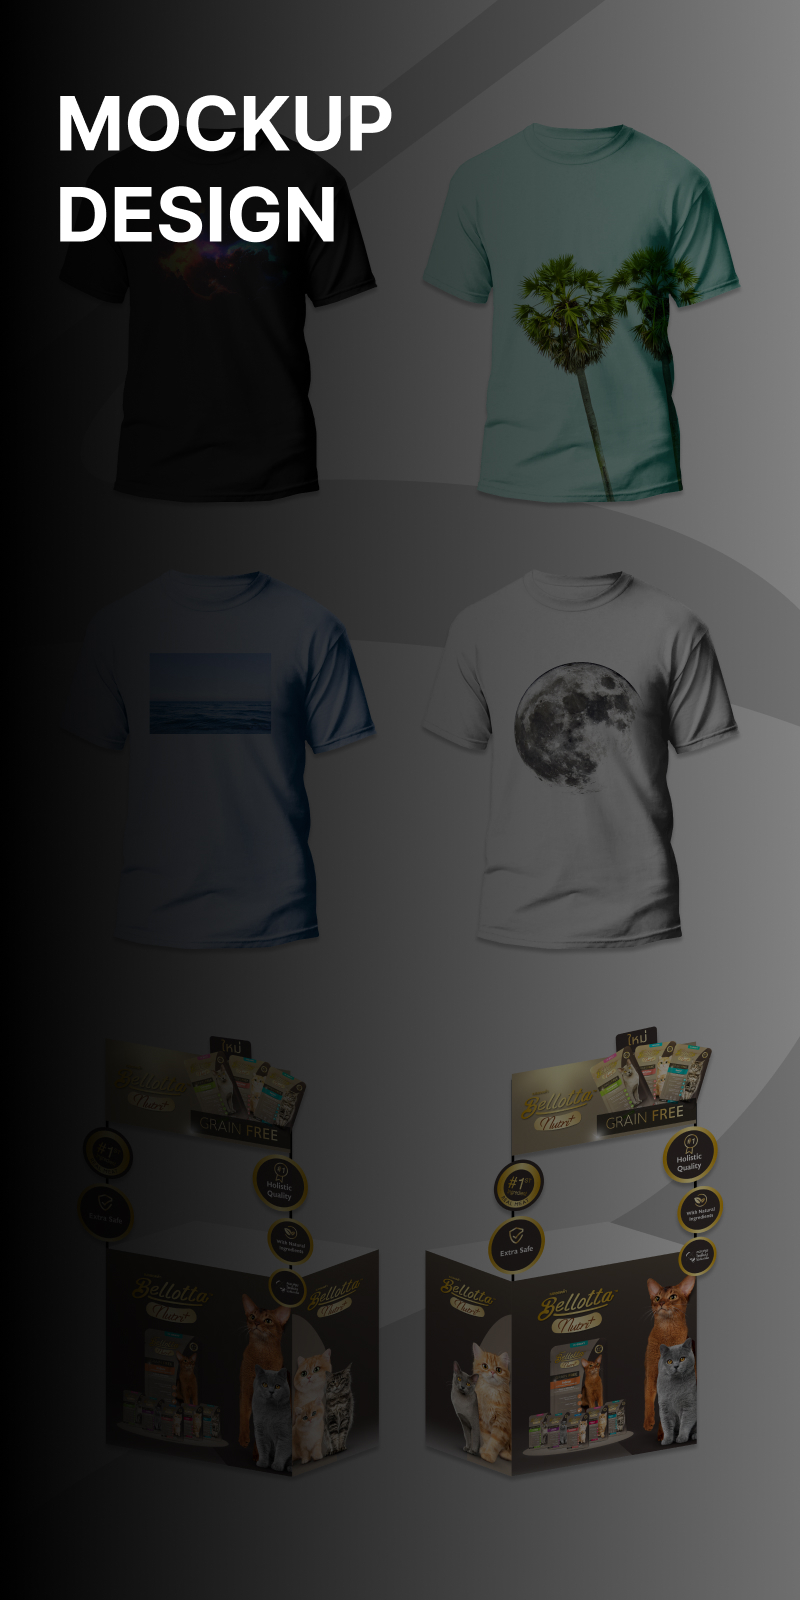
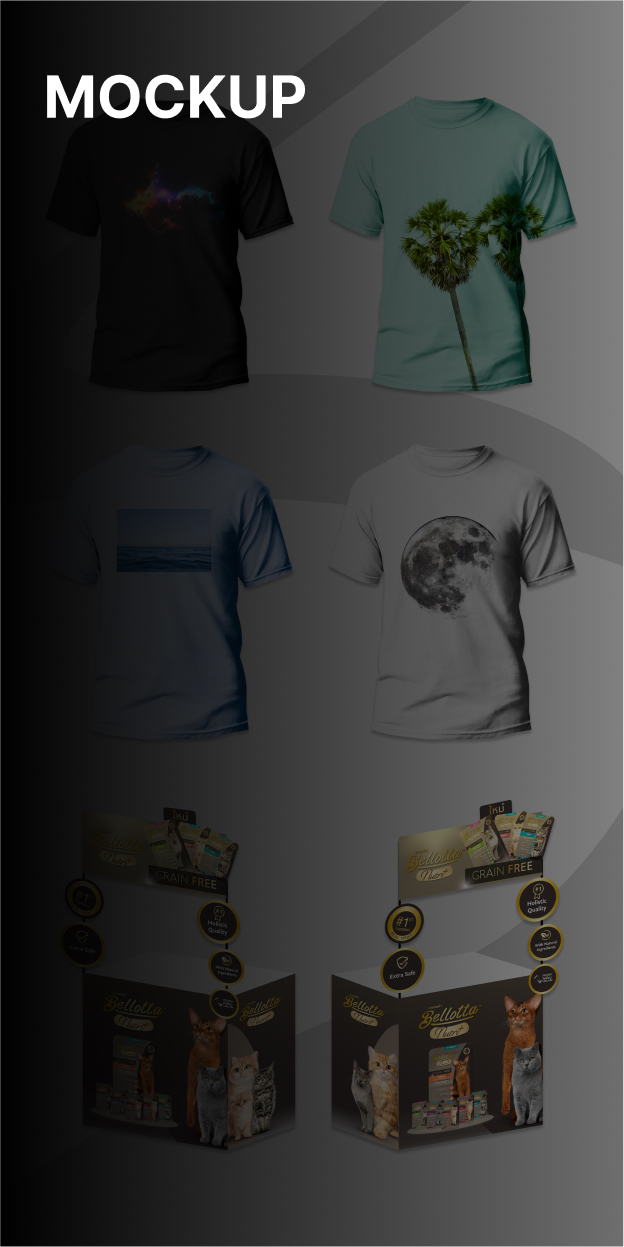
newww

diff --git a/fastwork.html b/fastwork.html
@@ -39,7 +39,7 @@
 								<div id="demo11" class="row">
 									<div class="column hover11">
 										<a class="brighten" href="#bannerdesign"><img width="24%" src="images/Banner0.jpg"></a>
-										<a class="brighten" href="#infographicdesign"><img width="24%" src="images/Banner3.jpg"></a>
+										<a class="brighten" href="#posterdesign"><img width="24%" src="images/Banner3.jpg"></a>
 										<a class="brighten" href="#mockupdesign"><img width="24%" src="images/Banner2.jpg"></a>
 										<a class="brighten" href="#illustrationdesign"><img width="24%" src="images/Banner1.jpg"></a>
 									</div>
@@ -84,7 +84,7 @@
 
 								  <hr />
 
-								  <h3 id="infographicdesign">Infographic Design</h3>
+								  <h3 id="posterdesign">Poster Design</h3>
 								  <div class="row">
 									<div class="column">
 										<img width="20%" src="images/info/info1.jpg">
@@ -94,7 +94,7 @@
 
 								  <hr />
 
-								  <h3 id="mockupdesign">Mockup Design</h3>
+								  <h3 id="mockupdesign">Mockup</h3>
 								  <div class="row">
 									<div class="column">
 										<img width="23.7%" src="images/t1.png">
@@ -108,7 +108,7 @@
 
 								  <hr />
 
-								  <h3 id="illustrationdesign">Illustration Design & Art</h3>
+								  <h3 id="illustrationdesign">Illustration & Art</h3>
 								  <div class="row">
 									<div class="column">
 										<img width="25%" src="images/box1.png">
